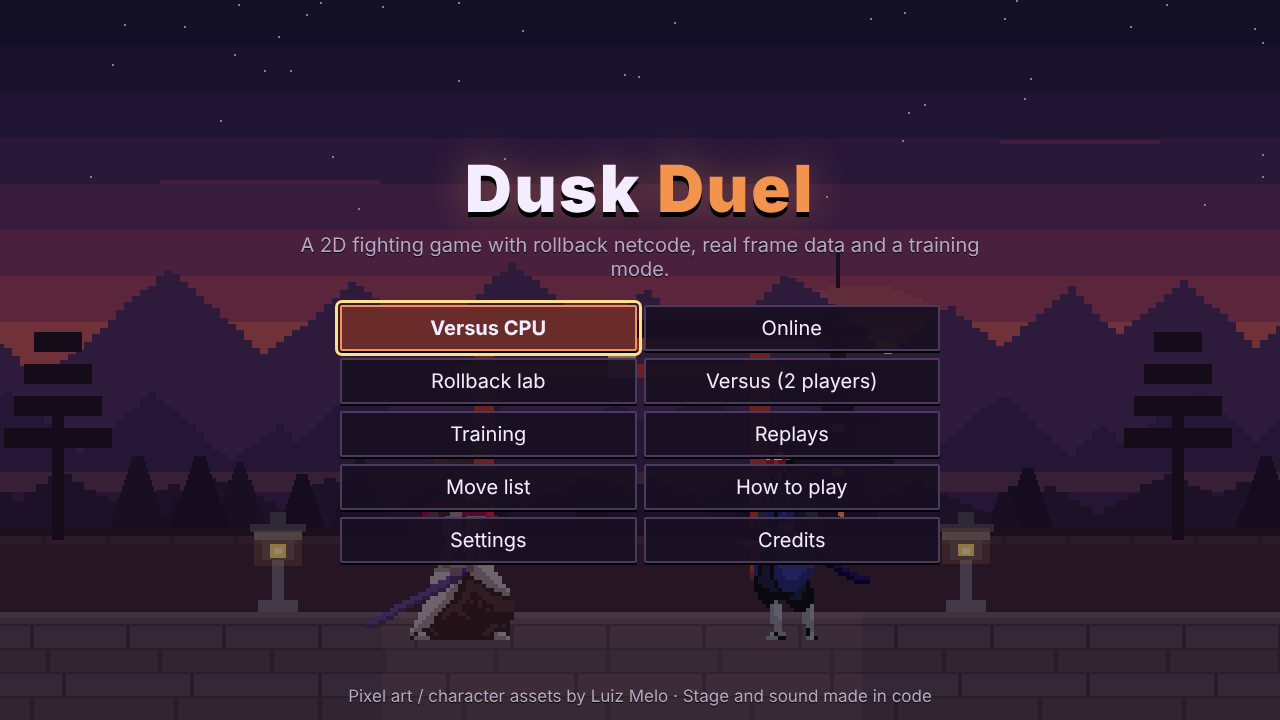
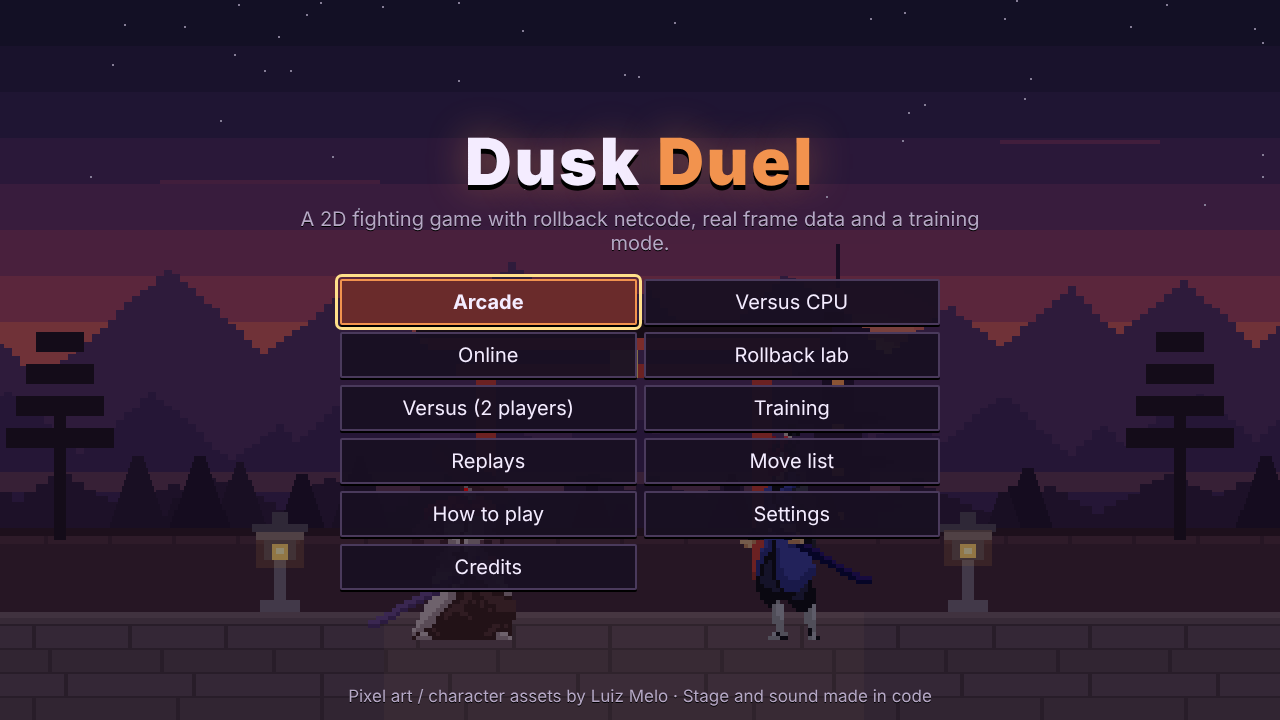
docs: arcade mode in the README, with an ending screenshot
Claude-Session: https://claude.ai/code/session_0133ci3TEjBPLBP2vctkLhz4

Changed region(s): [[0.25, 0.1833, 0.7812, 0.8861], [0.5938, 0.825, 0.6562, 0.8861]]

diff --git a/README.md b/README.md
@@ -8,7 +8,7 @@ fighting games are actually built:
 - an **input buffer with motion inputs**;
 - a real **training mode** that shows all of it.
 
-Six fighters, a CPU opponent, local versus, **online play** (peer to peer
+Six fighters, an **arcade mode**, a CPU opponent, local versus, **online play** (peer to peer
 over WebRTC), **replays**, and touch controls for phones. It's plain
 JavaScript on a canvas.
 
@@ -75,6 +75,29 @@ game.** [SECURITY.md](SECURITY.md) explains what that means for trust.
 | --- | --- |
 | ![A private room with its code and invite link](docs/media/online-room.png) | ![Two browsers in an online match over a direct WebRTC connection](docs/media/online-match.png) |
 | A private room: the code and the invite link | An online match, on the direct path (captured from two real browsers) |
+
+## Arcade mode
+
+**Title → Arcade**: pick a fighter and climb a ladder of six CPU fights.
+
+- You fight everyone else once, in a random order, then your character's
+  **rival** (Mack's is Kenji, Deka's is Mav, and so on).
+- The CPU gets tougher each fight, from Easy to Hard.
+- **Lose, and you can continue**: you fight the same opponent again, and
+  the continue is counted. A draw is fought again for free.
+- **Clearing the ladder** plays your character's ending: four short
+  captioned scenes at the shrine. Then a summary shows the fight time,
+  continues and rounds lost.
+- **Progress is saved in this browser.** A run in progress survives
+  closing the page, a ✓ marks every character you've cleared, and the
+  select screen shows each one's best clear (fewest continues, then
+  fastest).
+
+![Mav's ending: Mav and Deka on the shrine steps, with the caption "He offers Deka a place at his court. To everyone's surprise, Deka accepts."](docs/media/arcade-ending.png)
+
+The rivals and endings are plain text in
+[`src/game/data/arcade.js`](src/game/data/arcade.js), to rewrite freely; a
+test checks that every character has a rival and an ending.
 
 ## Replays
 
@@ -292,7 +315,9 @@ Then:
 3. its sprite sheets in `public/sprites/`, listed in [ASSETS.md](ASSETS.md);
 4. a CPU profile in [`cpu/profiles.js`](src/game/cpu/profiles.js);
 5. its id in `CHARACTERS` in [`shared/protocol.js`](shared/protocol.js), so
-   the server accepts it online (a test checks this).
+   the server accepts it online (a test checks this);
+6. a rival and an ending in [`data/arcade.js`](src/game/data/arcade.js)
+   (a test checks this too).
 
 Any data change also changes the game version, so older replays are
 refused instead of playing out differently.
@@ -377,12 +402,20 @@ invite link in the other.
   - every tutorial step passes when done and not when idle;
   - every move's keyboard and controller instructions follow the
     player's bindings.
+- **Arcade mode** ([`tests/arcade.test.js`](tests/arcade.test.js)):
+  - the ladder is everyone else once, then the rival;
+  - the CPU climbs from Easy to Hard, every setting moving the same way;
+  - a loss costs a continue and a draw doesn't;
+  - a saved run survives a reload and a broken one is ignored;
+  - only a better clear replaces a character's best.
 - **Session 1's tests**: determinism (including the golden hash), motion
   inputs, frame data measured in the simulation, blocking, throws, combos,
   rounds, the CPU, the data validator and assets.
 
-**`npm run test:e2e`** runs 14 Playwright tests:
+**`npm run test:e2e`** runs 15 Playwright tests:
 - smoke tests;
+- a whole arcade ladder, with a continue, a reload in the middle, the
+  rival, the ending and the clear;
 - the lab;
 - the replay viewer;
 - captions;
@@ -424,8 +457,8 @@ visitor after that waits about a minute (the lobby says so).
 
 ## Privacy
 
-- **No accounts and no tracking.** The game stores your settings and
-  recent replays in your browser's local storage. Nothing is sent anywhere
+- **No accounts and no tracking.** The game stores your settings, recent
+  replays and arcade progress in your browser's local storage. Nothing is sent anywhere
   unless you play online.
 - **Online play.**
   - The matchmaking server sees your IP address and your room. It keeps
